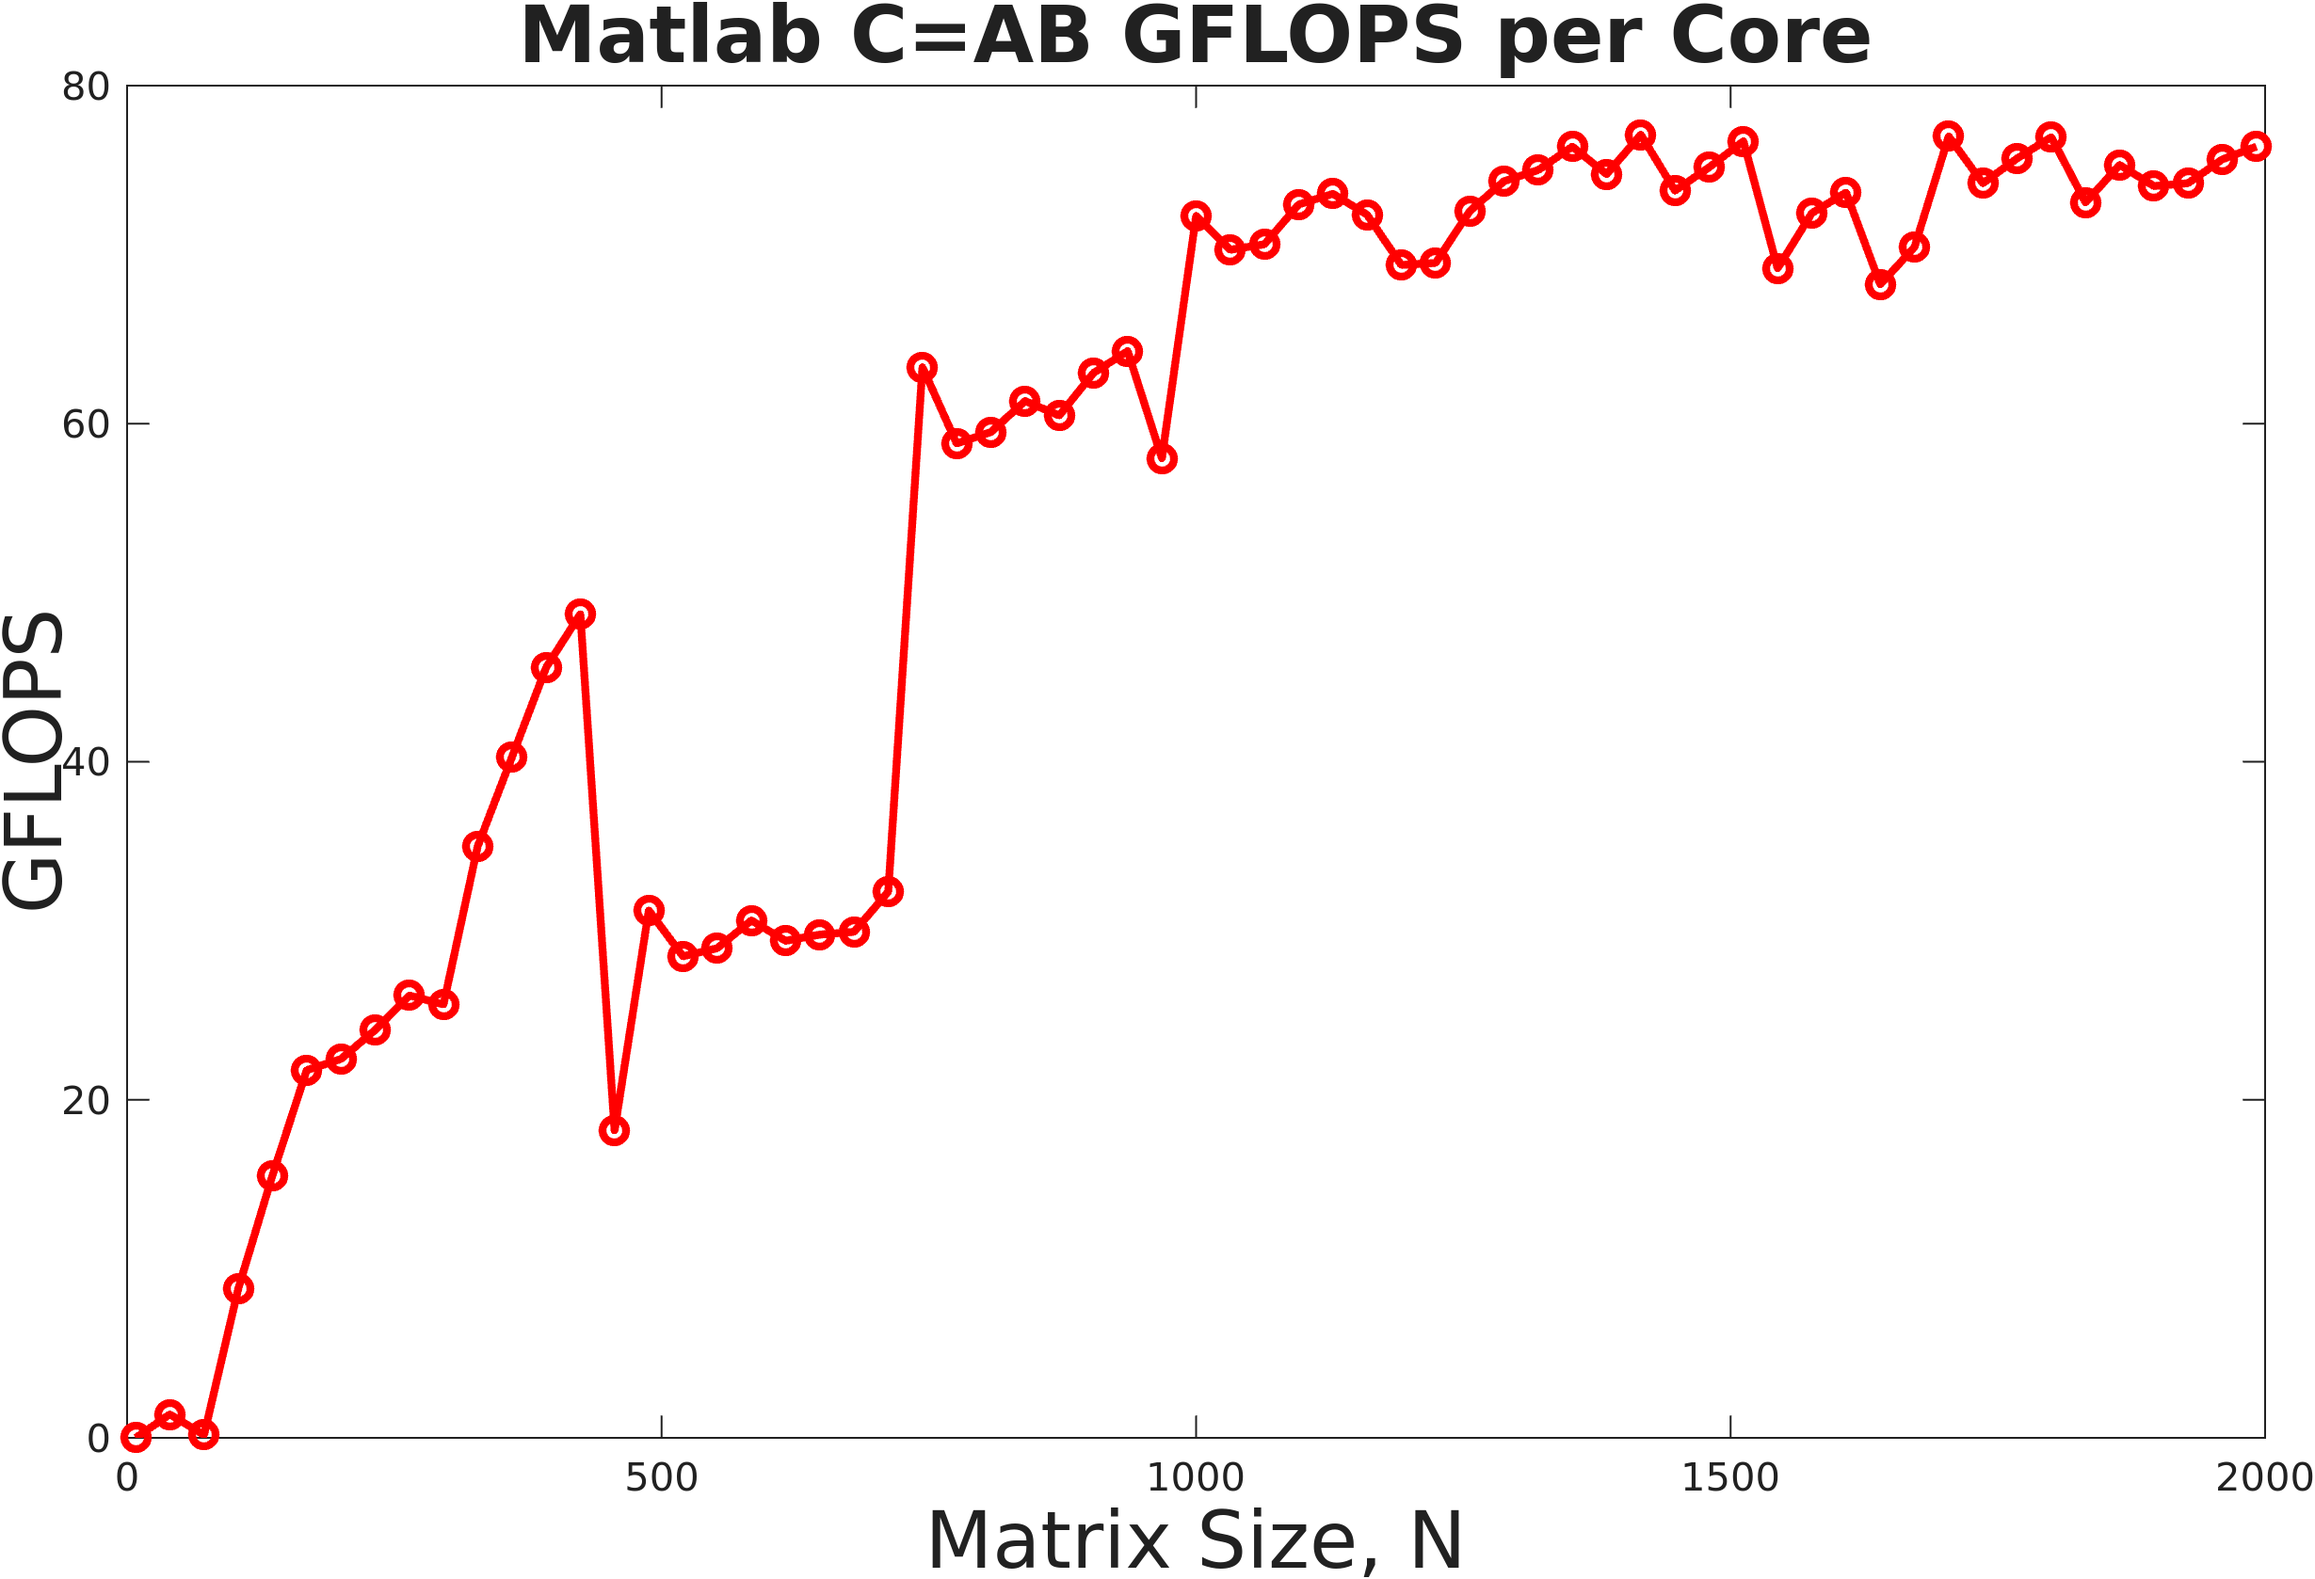
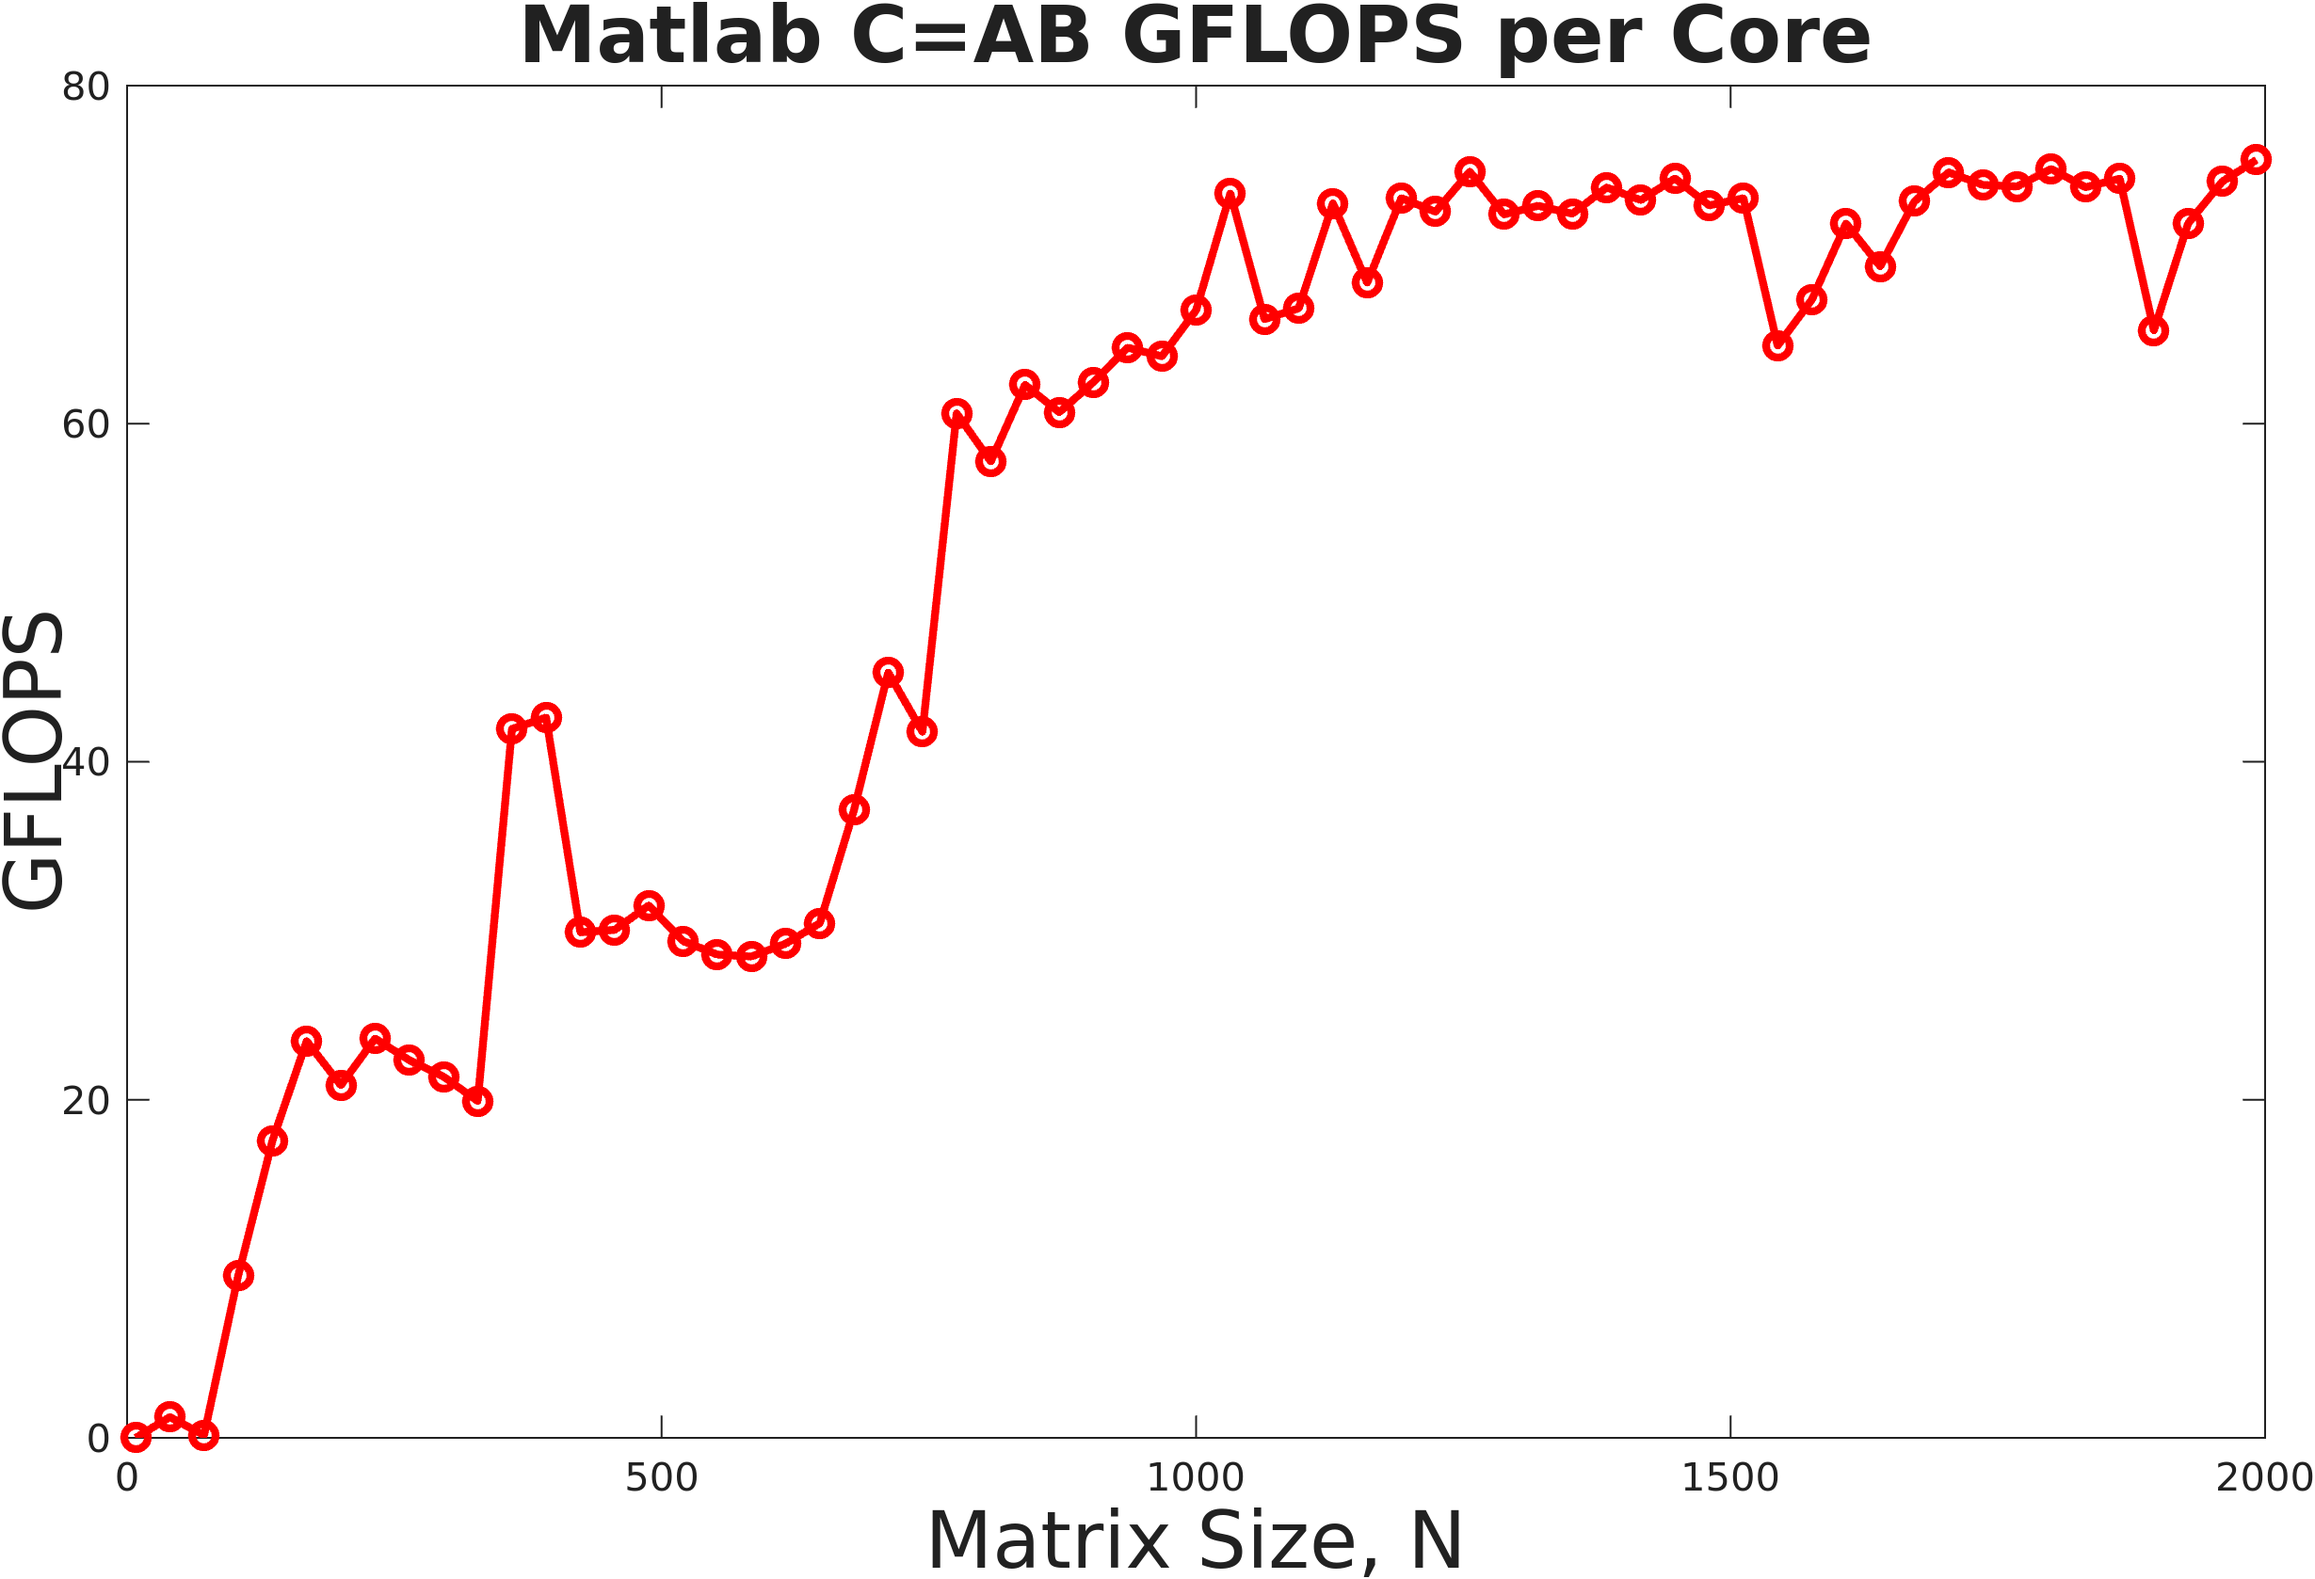
run to get max gflops

Changed region(s): [[0.1236, 0.062, 0.8345, 0.7437], [0.8345, 0.062, 0.989, 0.2169], [0.0927, 0.7128, 0.1236, 0.8367]]

diff --git a/hw1/q1_results/matlab_results/dgtime.m b/hw1/q1_results/matlab_results/dgtime.m
@@ -1,5 +1,7 @@
 hdr;
 
+max_gflops = 0;
+N_where_max_occurs = 0;
 k=0;
 for N=8:32:2000; k=k+1;
 
@@ -20,12 +22,19 @@ for N=8:32:2000; k=k+1;
    ncore = 8;
    gcore = gflops / ncore;                % GFLOPS / core
 
+   if gcore > max_gflops
+	   max_gflops = gcore;
+	   N_where_max_occurs = N;
+   end
+
    disp([ N etime gcore ]);
 
    NN(k)=N;
    gc(k)=gcore;
 
 end;
+
+fprintf("The maximum gflops per core is %.3f, and this occurs at N=%d\n.", max_gflops, N_where_max_occurs);
 
 plot(NN,gc,'ro-',lw,2);
 xlabel('Matrix Size, N',fs,20);
